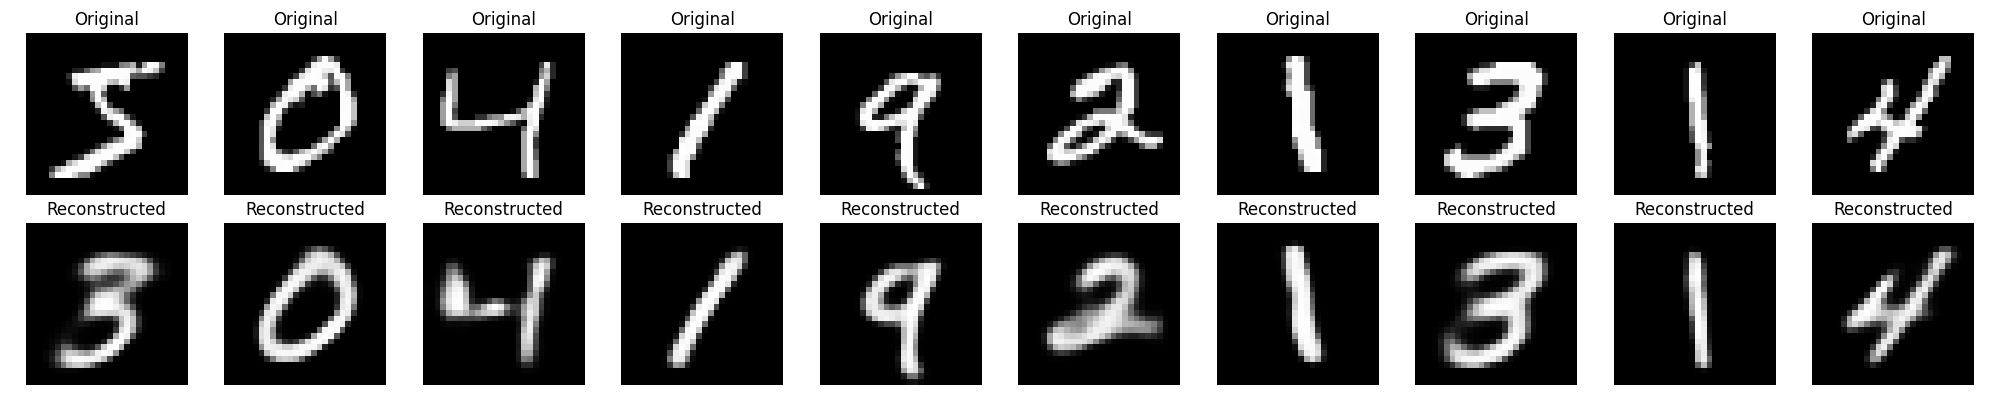
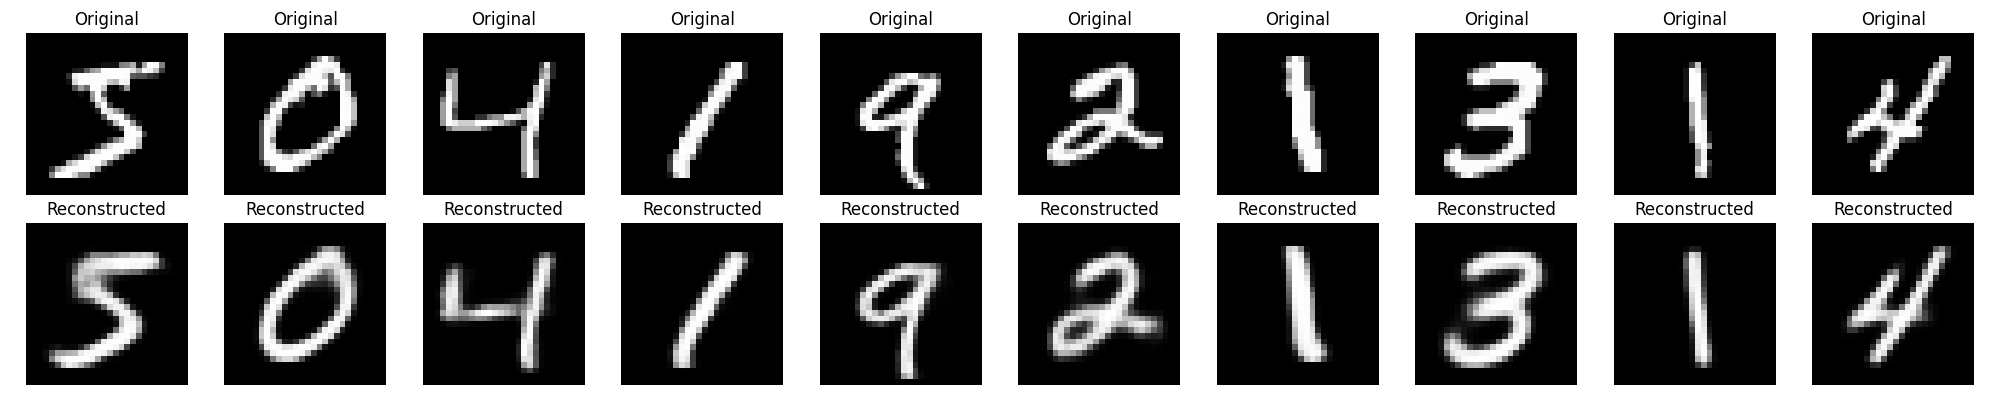
feat: Shift from lr decay schedule to ReduceLROnPlateau; add a test step to log validation losses for the callbacks to work -> reconstructed images look clean!

diff --git a/src/mnist_vae.py b/src/mnist_vae.py
@@ -3,7 +3,7 @@ import numpy as np
 import pandas as pd
 import tensorflow as tf
 from tensorflow.keras import layers # type: ignore
-from tensorflow.keras.callbacks import EarlyStopping # type: ignore
+from tensorflow.keras.callbacks import EarlyStopping, ReduceLROnPlateau # type: ignore
 import matplotlib.pyplot as plt
 
 # Encoder class
@@ -84,7 +84,35 @@ class VAE(tf.keras.Model):
         grads = tape.gradient(total_loss, self.trainable_weights)
         self.optimizer.apply_gradients(zip(grads, self.trainable_weights))
 
-        return {"loss": total_loss} # We'll track during training
+        return {
+            "loss": total_loss,
+            "reconstruction_loss": tf.reduce_mean(reconstruction_loss),
+            "kl_loss": tf.reduce_mean(kl_loss),
+        }
+
+    # Custom test step (so we can log validation losses)
+    def test_step(self, data):
+        if isinstance(data, tuple):
+            data = data[0]  # ignore labels
+
+        z, z_mean, z_log_var = self.encoder(data)
+        reconstruction = self.decoder(z)
+
+        reconstruction_loss = tf.reduce_sum(
+            tf.keras.losses.binary_crossentropy(data, reconstruction), axis=[1, 2]
+        )
+        kl_loss = -0.5 * tf.reduce_sum(
+            1 + z_log_var - tf.square(z_mean) - tf.exp(z_log_var), axis=1
+        )
+        total_loss = tf.reduce_mean(reconstruction_loss + self.beta * kl_loss)
+
+        return {
+            "loss": total_loss,
+            "reconstruction_loss": tf.reduce_mean(reconstruction_loss),
+            "kl_loss": tf.reduce_mean(kl_loss),
+        }
+
+
     
 # Load data
 def load_data():
@@ -103,20 +131,24 @@ def train_model(latent_dim=10):
     # Initialize parts
     encoder = ConvEncoder(latent_dim)
     decoder = ConvDecoder()
-    vae = VAE(encoder, decoder, beta=0.1) # Can play around with
+    vae = VAE(encoder, decoder, beta=1.0) # Can play around with
 
     # Add an learning rate scheduler
-    lr_schedule = tf.keras.optimizers.schedules.ExponentialDecay(
-        initial_learning_rate=0.0005,
-        decay_steps=1000,
-        decay_rate=0.95
+    lr_schedule = ReduceLROnPlateau(
+        monitor='val_loss',
+        factor=0.2,
+        patience=5,
+        min_lr=0.00001
     )
 
+    # Add early stopping
+    early_stopping = EarlyStopping(monitor='val_loss', patience=10)   
+
     # Compile with Adam optimizer
-    vae.compile(optimizer=tf.keras.optimizers.Adam(learning_rate=lr_schedule))
+    vae.compile(optimizer=tf.keras.optimizers.Adam(), loss=None) # loss=None because we have custom loss in train_step()
 
     # Train
-    vae.fit(x_train, epochs=5, batch_size=128, callbacks=[EarlyStopping(monitor='loss', patience=3)])
+    vae.fit(x_train, epochs=50, batch_size=128, validation_split=0.2, callbacks=[lr_schedule, early_stopping])
 
     # Return model
     return vae
